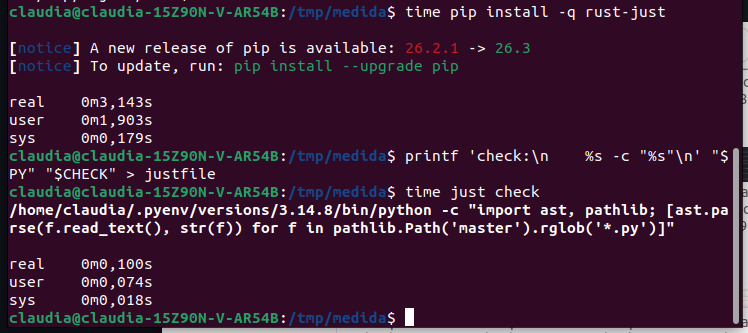
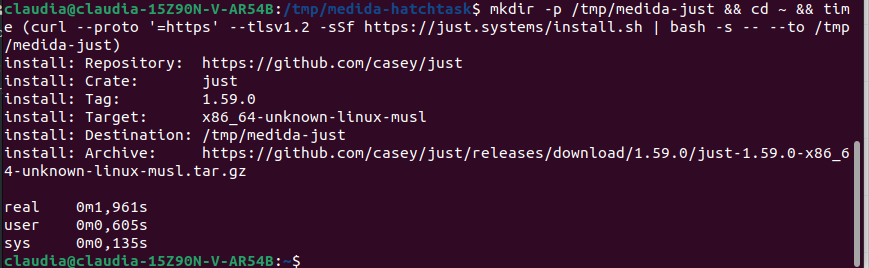
refs #23 Medir just con su script de instalación
Se instala con el script que recomienda su documentación (https://just.systems/man/en/pre-built-binaries.html), que descarga el binario ya compilado.

Changed region(s): [[0.0, 0.0, 1.0, 1.0]]

diff --git a/docs/objetivos/objetivo-3/automatizacion.md b/docs/objetivos/objetivo-3/automatizacion.md
@@ -31,8 +31,9 @@ Hacía falta una forma común de instalar las dependencias y ejecutar las tareas
 - Make: las tareas se definen en un Makefile. Ya estaba instalado en el sistema, así que
   no hay tiempo de instalación, y ejecuta la tarea check en 0,09 s
   ([captura](capturas/make.png)).
-- just: las tareas se definen en un justfile. Se instala en 3,14 s y ejecuta la tarea check
-  en 0,10 s ([captura](capturas/just.png)).
+- just: las tareas se definen en un justfile. Se instala en 1,96 s
+  ([captura](capturas/just.png)) y ejecuta la tarea check en 0,12 s
+  ([captura](capturas/just1.png)).
 - poethepoet: las tareas se definen dentro de pyproject.toml, y funciona con cualquier
   gestor de dependencias, no solo con Poetry. Se instala en 2,93 s y ejecuta la tarea check
   en 0,43 s ([captura](capturas/poethepoet.png)).
